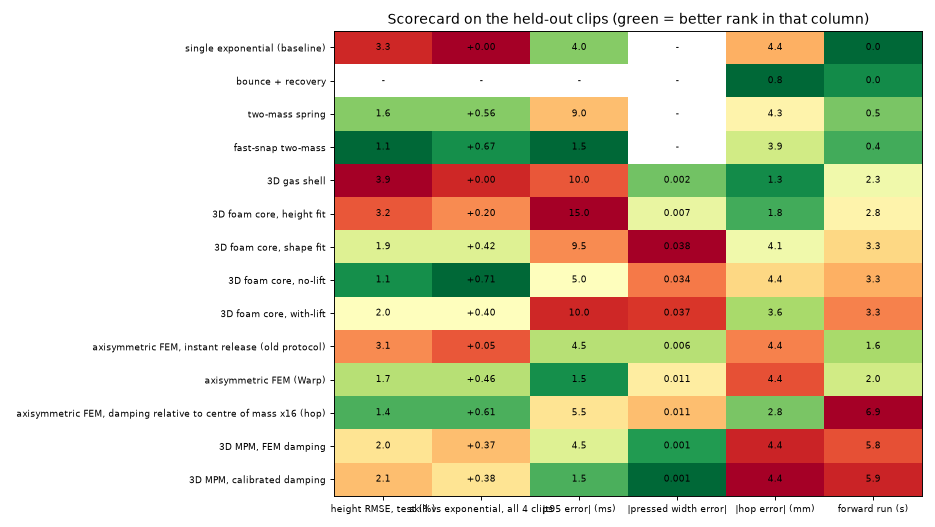
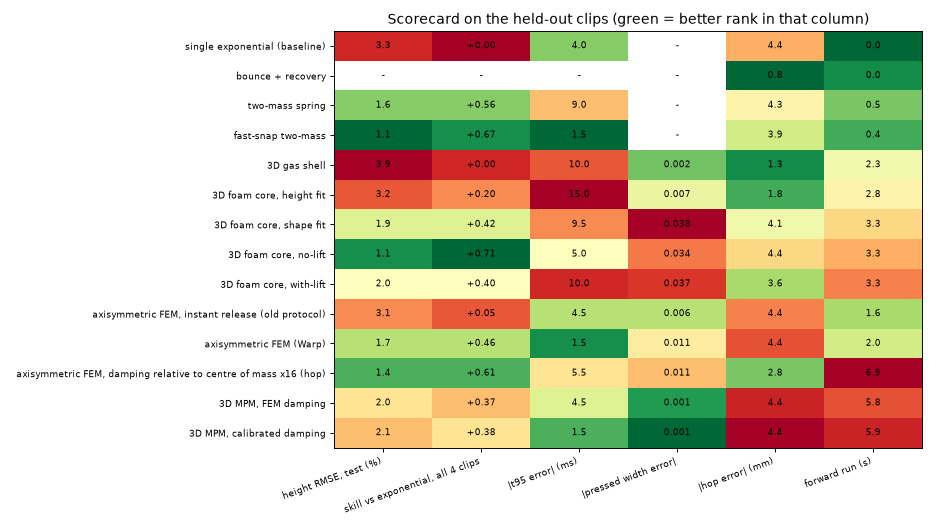
Make the repo easy for a first-time reader: new front-page README, video gallery, archive/ for superseded work, fixed links

diff --git a/evaluation/model_comparison/src/compare_all.py b/evaluation/model_comparison/src/compare_all.py
@@ -95,7 +95,7 @@ for j in range(V.shape[1]):
 fig, ax = plt.subplots(figsize=(11, 6.2)); ax.imshow(np.ma.masked_invalid(rank), cmap='RdYlGn_r', vmin=0, vmax=1, aspect='auto')
 for i in range(V.shape[0]):
     for j in range(V.shape[1]): ax.text(j, i, '-' if np.isnan(V[i, j]) else (f'{-V[i, j]:+.2f}' if j == 1 else (f'{V[i, j]:.1f}' if j != 3 else f'{V[i, j]:.3f}')), ha='center', va='center', fontsize=8)
-ax.set_xticks(range(len(cols))); ax.set_xticklabels([c[0] for c in cols], fontsize=8); ax.set_yticks(range(len(keys))); ax.set_yticklabels([INFO[k][0] for k in keys], fontsize=8); ax.set_title('Scorecard on the held-out clips (green = better rank in that column)')
+ax.set_xticks(range(len(cols))); ax.set_xticklabels([c[0] for c in cols], fontsize=8, rotation=20, ha='right'); ax.set_yticks(range(len(keys))); ax.set_yticklabels([INFO[k][0] for k in keys], fontsize=8); ax.set_title('Scorecard on the held-out clips (green = better rank in that column)')
 plt.tight_layout(); plt.savefig(f'{OUT}/fig6_scorecard.png', dpi=85); plt.close()
 
 # gallery of the model panels from the existing videos (held-out clip 0538): pressed state and 32 ms after release

diff --git a/README.md b/README.md
@@ -1,77 +1,75 @@
-# neural_simulation: learning a soft ball's deformation from video
+# Teaching a computer how a foam ball squashes, from video
 
-One foam ball, one steel tin that presses it and is pulled away, filmed at 1080p / 240 fps. From that video I fit physics models of how the ball squashes and recovers, and test them on clips held out of the fit (no refitting). Thirteen models in three families are compared on the same footing.
-**The models are physics, not learned**: spring and continuum solvers (hand-written, or NVIDIA Warp) with a handful of physical constants fitted by least squares or Adam (system identification). The only neural network is the **pretrained SAM 2** segmentation model used for tracking (together with a colour-threshold tracker).
+I filmed a yellow foam ball being pressed by a steel tin and let go, then built simulations of the ball that reproduce what the camera saw. The simulations were set up using two clips and then **tested on two clips they had never seen**.
 
+This is a take-home project for Dirac Robotics (Research Engineer Intern). The brief: fit a simple 3D deformation model of one soft object from video, demonstrate it on a fresh instance of the same interaction, and compare it with the real behaviour.
+
+## The result in 30 seconds
+After the tin lets go, the real ball springs back to its original height in about **25-40 ms** (a few video frames at 240 fps). The best models predict the ball's height over the following 250 ms to within **1-2 % of its height** (about 1 mm on a 67 mm ball) on the held-out clips. Guessing "it eases back exponentially" gives 3.3 %.
+
+![Height of the ball after release: real (dots) against every model, for a training clip (left) and a held-out clip (right)](evaluation/model_comparison/outputs/fig2_height_by_family.png)
+
+**Watch these first** (real clip on the left, model on the right, same clock, slowed 8x; the clip is 0538, which was held out):
+- [Finite-element ball, with the hop](models/continuum/fem_relative_damping_hop/outputs/real_vs_fem_hop16_IMG_0538.mp4)
+- [Finite-element ball, without the hop](models/continuum/fem_axisymmetric_warp/outputs/real_vs_fem_IMG_0538.mp4)
+
+All videos are listed in [docs/videos.md](docs/videos.md). Terms explained in plain words: [docs/glossary.md](docs/glossary.md).
+
+## What I did, in four steps
+1. **Measure the video** ([tracking/](tracking/README.md)). Find the ball in every frame (a colour threshold, cross-checked with Meta's pretrained SAM 2 segmentation model) and record its top edge, bottom edge, width and outline over time.
+2. **Choose a model of the ball's physics.** I tried three families, from simple to detailed, so the choice is not a guess.
+3. **Fit the model's few numbers** (stiffness, damping, friction) so it matches the two training clips. This is ordinary curve fitting of physical constants. **There is no neural network in the models**; the only network is SAM 2, used for tracking.
+4. **Predict the held-out clips and compare** every model on the same measurements ([evaluation/model_comparison](evaluation/model_comparison/README.md)).
+
+The tin's motion is an *input* taken from the video (it is the thing pushing the ball); the models predict how the ball responds after the tin lets go, plus its outline.
+
+## Which model should I look at?
+Models are grouped in three families under [models/](models/). Height error is on the **held-out clips** (lower is better; the simple exponential guess scores 3.3 %).
+
+| Model | In plain words | Height error | Look at it if you want... |
+| --- | --- | --- | --- |
+| [FEM, default](models/continuum/fem_axisymmetric_warp/README.md) | the ball as a smooth elastic solid, fitted to real material numbers (stiffness 38 kPa, Poisson ratio 0.10) | 1.7 % | the main physical model |
+| [FEM with the hop](models/continuum/fem_relative_damping_hop/README.md) | the same ball with damping that lets it bounce off the table like the real one | **1.4 %** | the most accurate model that also hops; includes the damping-factor study |
+| [MPM](models/continuum/mpm_3d_warp/README.md) | the ball as a cloud of 80,000 particles, in full 3D | 2.0 % | other loads: a point poke and two side plates (not validated against video) |
+| [Fast-snap two-mass](models/lumped_1d/fast_snap/README.md) | two blobs and a spring; the simplest model that works | 1.1 % | how far a very simple model gets |
+
+The other eight models (1D spring models, 3D spring meshes) are the earlier attempts; they are compared in [evaluation/model_comparison](evaluation/model_comparison/README.md), including a one-page scorecard and plots of every aspect (height, recovery time, shape, hop, speed). The spread among the best models (1.1-2.0 %) is about the size of the tracking noise, so they cannot be ranked on height alone; the continuum models add physical constants that do not depend on the mesh, a smooth ball, and a route to other loads.
+
+## Repository map
+```
+tracking/     step 1: video -> measurements (colour tracker and SAM 2)
+models/       steps 2-3: one folder per model, each with README (formulas, parameters, limits), src/, outputs/, run.sh
+  lumped_1d/    the ball as one or two vertical bodies (3 models)
+  mesh_3d/      3D mass-spring surface mesh (5 models)
+  continuum/    elastic solid: finite elements, the hop variant, material point method (3 models; NVIDIA Warp + PyTorch)
+evaluation/   step 4: all models compared on the same footing (tables, 7 figures)
+shared/       code several models import
+docs/         assignment, glossary, video gallery, the correction note
+archive/      superseded earlier work, kept for the record
+```
+**How to read it:** 5 minutes: this page and the two videos. 15 minutes: add [the comparison](evaluation/model_comparison/README.md) and one model README. Deep dive: [continuum/README](models/continuum/README.md), then the FEM and hop READMEs.
+
+## Run it
 ```bash
 # needs python3, ffmpeg and the four originals in videos/IMG_053{6,7,8,9}.MOV (not in git, ~157 MB)
-./run_all.sh              # ~30 min: tracking, the 1D models, 3D mesh and continuum videos, the comparison (saved parameters)
-./run_all.sh --fit-3d     # refit the 3D mesh models and the FEM too (each ~10-20 min)
-# the continuum models and SAM 2 run in a separate environment (.venv-sim: Warp, PyTorch, SAM 2; created on first use by env_sim.sh; GPU recommended)
+./run_all.sh              # ~30 min: tracking, all models from saved parameters, videos, comparison
+./run_all.sh --fit-3d     # also refit the 3D mesh models and the FEM (each ~10-20 min)
 ```
-Every folder under `tracking/`, `models/` and `evaluation/` has its own `README.md` (formulas, parameters, assumptions, limitations, results), `src/`, `outputs/` and `run.sh`. Clips: 0536 and 0537 are training (deep squeezes, 36-41 % of height); 0538 and 0539 are test (shallow squeezes, 62-63 %). Plain-words explanations of the terms: [docs/glossary.md](docs/glossary.md).
+The continuum models use a second environment (`.venv-sim`: Warp, PyTorch, SAM 2; built automatically by `env_sim.sh`; a GPU is recommended). Clips: 0536 and 0537 are training (deep squeezes, ball pressed to 36-41 % of its height); 0538 and 0539 are held out (shallow squeezes, 62-63 %).
 
-## An important correction (read this first)
-An earlier version of this repo had a bug in the release instant: it took the **mid-rise frame** (ball already at about 72 % of its height) as the moment the tin lets go. The tin in fact **retreats gradually** (46-121 ms) with the ball riding on it until the ball separates; only the free recovery after separation (about 25-40 ms to 95 % of rest height) belongs to the ball. Every model was therefore started from the wrong state and fitted to look "fast". Consequences: the claim that the real ball snaps back in 1-2 frames was false, the fast-snap experiment chased an artefact, and the early recovery-time study is invalid. Fix: the measured tin trajectory drives a plate in every simulator, time zero is the separation frame, and **all models were refitted on the SAM 2 measurements**. Details and what stays valid: [docs/correction_release_definition.md](docs/correction_release_definition.md). Old outputs are kept in `outputs/archive_v1_instant_release/`.
+## Assumptions and limitations (read before relying on any number)
+- **Only flat-plate presses were fitted and tested.** The point-poke and side-plate loads (MPM, spring meshes) are predictions with no video to check them against.
+- **The tin's motion is an input** from the video; the models do not predict how the tin moves.
+- **Ball mass was not measured** (assumed density 55 kg/m³, mass about 10 g; stiffness scales linearly with it) and the 6.7 cm diameter is approximate; it sets the pixel scale.
+- **Four clips only** (two training, two held out): the numbers are a rough spread, not a confidence interval.
+- **The hop is the weakest part.** The default continuum models do not hop at all. The hop variant gets its size right (4-8 mm against 3-7 mm) but it starts about 5 ms after release while the real hop starts about 20 ms after, and its damping multiplier (×16) was chosen on a coarse grid from two clips. Details in its README.
+- **Spring-mesh parameters depend on the mesh;** the continuum constants should not.
+- **Fit status:** the gas-shell fit never left its starting values; the no-lift fit ended with one stiffness on its bound; mesh fits use two or three starting points.
+- **Tracking:** one fixed table line and camera pose; the cause of the uneven frame gaps in the files is not verified (file timestamps are used).
+- **Input videos are not in git** (size). They are the four originals named above.
 
-## What the video taught me
-- **Time base:** file timestamps are uneven (2/3 of gaps 1/240 s, 1/3 1/120 s); fitting free-flight arcs gives gravity of about 8.7 m/s² with them against 9.4-25 with a uniform 1/240 s, so the file timestamps are used.
-- **The ball hops** (3-8 mm) after separating; part of it may come from friction or suction with the tin, which this video cannot separate from the ball's own elasticity.
-- **Shape:** while pressed the outline is a flat-sided cylinder (squareness n about 4); the width grows only 4-8 % while the height drops 37-66 %, so volume is not conserved (foam, not a sealed gas).
-- **Tracking:** the colour tracker reads the pressed top edge 4-5 % too high (a reflection on the tin); SAM 2 does not. After release they agree.
-
-## Repository map: one problem, several ways to solve it
-```
-tracking/        video -> measurements: colour tracker and SAM 2 (ball edges, outline, shape)
-models/
-  lumped_1d/     Family 1: the ball as one or two vertical bodies
-    bounce_recovery/       rigid hop (restitution) + exponential recovery (after the first apex)
-    two_mass_spring/       bottom + top mass, nonlinear spring-damper
-    fast_snap/             + stiff deep-compression regime
-  mesh_3d/       Family 2: 3D mass-spring surface mesh with a pressing tool
-    gas_shell/             sealed gas inside a stretchy skin
-    foam_core_height_fit/  foam core (radial springs), fit to height / lift / width
-    foam_core_shape_fit/   + outline squareness and width over time
-    foam_core_no_lift/     hop ignored in the fit
-    foam_core_with_lift/   hop included (weight 4)
-  continuum/     Family 3: the ball as an elastic solid (E, nu), Warp + PyTorch, SAM 2 data
-    fem_axisymmetric_warp/ finite elements on the 2D slice, revolved into a smooth ball
-    fem_relative_damping_hop/ the same FEM with damping relative to the centre of mass (x16): keeps the hop
-    mpm_3d_warp/           3D material point method, FEM material, point and side loads
-evaluation/      model_comparison (all models, every aspect); recovery_time (superseded)
-shared/          code several models import (3D engine, scenario runner, renderers, clip preparation)
-docs/            assignment PDF, initial plan, the correction, write-up of the first experiments, glossary
-```
-Family overviews: [lumped_1d](models/lumped_1d/README.md), [mesh_3d](models/mesh_3d/README.md), [continuum](models/continuum/README.md). Every model folder has real-versus-model videos in `outputs/` (time zero = separation, slowed 8x; training clip 0536 and held-out 0538, 0539).
-
-## Results: all models on the same footing ([full comparison](evaluation/model_comparison/README.md))
-Height error after separation (RMSE, % of ball height) on the **held-out clips**; skill = 1 − RMSE / RMSE of the plain exponential (3.3 % on the held-out clips), averaged over all four clips:
-
-| Model | Held-out height error | Skill (4 clips) | 95 % recovery (real 27 / 24 ms) | Notes |
-| --- | --- | --- | --- | --- |
-| fast-snap two-mass | 1.1 % | +0.67 | 24 / 24 | best 1D model |
-| foam core, no-lift (mesh) | 1.1 % | +0.71 | 31 / 30 | no hop |
-| two-mass spring | 1.6 % | +0.56 | 35 / 34 | |
-| **axisymmetric FEM (Warp)** | **1.7 %** | +0.46 | 24 / 24 | E = 38 kPa, ν = 0.10; smooth round ball; reproduces the outline |
-| foam core, shape fit (mesh) | 1.9 % | +0.42 | 16 / 16 | recovers too fast |
-| foam core, with-lift (mesh) | 2.0 % | +0.40 | 16 / 15 | hop on deep presses |
-| **[FEM hop model](models/continuum/fem_relative_damping_hop/README.md): damping relative to centre of mass ×16** | **1.4 %** | +0.62 | 20 / 20 | lowest height error; keeps a hop (4-8 mm vs real 3-7); 95 % recovery slightly fast on test clips; α chosen on training clips only (hop_scan) |
-| **3D MPM (Warp), FEM material** | 2.1 % | +0.38 | 27 / 27 | point and side loads (unvalidated) |
-| foam core, height fit (mesh) | 3.2 % | +0.20 | 11 / 10 | closest hop of the meshes |
-| 3D gas shell | 3.9 % | 0.00 | 22 / 9 | fit stalled; rings |
-| bounce + recovery | not comparable | | | covers only the time after the first hop apex; reproduces the hop |
-| axisymmetric FEM, instant release (old protocol) | 3.1 % | +0.05 | 30 / 30 | ablation: the tin retreat is worth 1.4 points |
-
-**Reading it honestly.** After the correction most physics models beat the plain exponential, and the spread among the good ones (1.1-2.1 %) is about the tracker's noise, so they cannot be ranked on height alone. The protocol (driving the measured tin retreat) mattered more than the model choice. The continuum models are not more accurate on height than the 1D models; what they add is physical constants that do not depend on the discretisation, a smooth ball that reproduces the outline, and a route to other loads. Only the spring models and the relative-damping FEM variant produce a hop; the spring models get it right on training clips only.
-
-## Limitations (read before relying on any number)
-- **The tin's motion is an input.** The compressed height and the measured tin trajectory come from the video; the models predict the ball's response after separation (and the outline).
-- **Only flat top presses were fitted and tested.** The point-probe and side-plate loads (spring engine, MPM) are predictions with no video to test against.
-- **No ball mass was measured accurately:** stiffness and damping of the spring models are per unit mass; the continuum models assume 55 kg/m³ (E scales linearly with it). The diameter (6.7 cm) is a rough estimate that sets the pixel scale and the gravity term.
-- **Mass-spring parameters depend on the mesh**; the continuum constants should not.
-- **No hop in the default continuum models** (mass-proportional damping); the FEM variant with damping relative to the centre of mass (×16) hops 4-8 mm, but E, ν and friction were fitted with absolute damping and only α was rescaled, and its hop starts ~5 ms after separation versus ~20 ms in the video. MPM has no such option yet. Tin friction or suction may add to the real hop and is not modelled.
-- **Fit status:** two training clips and two test clips give a rough spread, not a confidence interval; the gas-shell fit never left its starting values; the no-lift fit ended with one stiffness on its bound; mesh fits use two or three starting points and 20-30 optimizer steps.
-- **Tracking:** fixed table line (pixel row 740, one camera pose); the cause of the irregular frame gaps is not verified; SAM 2 and the colour tracker agree after release but differ while pressed (the continuum models and the refitted older models use SAM 2).
+## One correction worth knowing about
+An early version took the wrong frame as "the moment the tin lets go" (the ball was still riding on the tin), which made every model look too fast. It was found, fixed by driving the measured tin motion in every simulator, and **every model was refitted**. Details: [docs/correction_release_definition.md](docs/correction_release_definition.md); the old outputs are in [archive/](archive/README.md).
 
 ## Credits
 Python, NumPy, SciPy, OpenCV, Matplotlib, FFmpeg; NVIDIA Warp (simulation), PyTorch (fitting), Meta's SAM 2 (`facebook/sam2.1-hiera-tiny`, via Hugging Face) for segmentation. Code and analysis were written with Claude Code (Anthropic's AI assistant); results were checked by running the pipelines.

diff --git a/docs/videos.md b/docs/videos.md
@@ -1,0 +1,91 @@
+# Video gallery
+
+Every video puts the **real clip next to the model**, on the same clock (time zero = the moment the ball separates from the tin; slowed 8x). Clips 0536 and 0537 were used to fit the models; **0538 and 0539 are held-out** (never used for fitting). If you only watch two, watch the first two rows of the continuum section.
+
+
+## Continuum: finite elements (default damping, no hop)  
+`models/continuum/fem_axisymmetric_warp`
+
+- [real_vs_fem_IMG_0536.mp4](../models/continuum/fem_axisymmetric_warp/outputs/real_vs_fem_IMG_0536.mp4) (0.4 MB)
+- [real_vs_fem_IMG_0538.mp4](../models/continuum/fem_axisymmetric_warp/outputs/real_vs_fem_IMG_0538.mp4) (0.4 MB)
+- [real_vs_fem_IMG_0539.mp4](../models/continuum/fem_axisymmetric_warp/outputs/real_vs_fem_IMG_0539.mp4) (0.4 MB)
+
+## Continuum: finite elements with hop (damping x16)  
+`models/continuum/fem_relative_damping_hop`
+
+- [hop_experiment_14to16_IMG_0536.mp4](../models/continuum/fem_relative_damping_hop/outputs/hop_experiment_14to16_IMG_0536.mp4) (0.3 MB)
+- [hop_experiment_14to16_IMG_0537.mp4](../models/continuum/fem_relative_damping_hop/outputs/hop_experiment_14to16_IMG_0537.mp4) (0.4 MB)
+- [hop_experiment_14to16_IMG_0538.mp4](../models/continuum/fem_relative_damping_hop/outputs/hop_experiment_14to16_IMG_0538.mp4) (0.3 MB)
+- [hop_experiment_14to16_IMG_0539.mp4](../models/continuum/fem_relative_damping_hop/outputs/hop_experiment_14to16_IMG_0539.mp4) (0.3 MB)
+- [hop_experiment_IMG_0536.mp4](../models/continuum/fem_relative_damping_hop/outputs/hop_experiment_IMG_0536.mp4) (0.3 MB)
+- [hop_experiment_IMG_0538.mp4](../models/continuum/fem_relative_damping_hop/outputs/hop_experiment_IMG_0538.mp4) (0.3 MB)
+- [real_vs_fem_hop16_IMG_0536.mp4](../models/continuum/fem_relative_damping_hop/outputs/real_vs_fem_hop16_IMG_0536.mp4) (0.4 MB)
+- [real_vs_fem_hop16_IMG_0538.mp4](../models/continuum/fem_relative_damping_hop/outputs/real_vs_fem_hop16_IMG_0538.mp4) (0.5 MB)
+- [real_vs_fem_hop16_IMG_0539.mp4](../models/continuum/fem_relative_damping_hop/outputs/real_vs_fem_hop16_IMG_0539.mp4) (0.4 MB)
+
+## Continuum: 3D material point method  
+`models/continuum/mpm_3d_warp`
+
+- [mpm_load_flat.mp4](../models/continuum/mpm_3d_warp/outputs/mpm_load_flat.mp4) (1.6 MB)
+- [mpm_load_point.mp4](../models/continuum/mpm_3d_warp/outputs/mpm_load_point.mp4) (1.6 MB)
+- [mpm_load_side.mp4](../models/continuum/mpm_3d_warp/outputs/mpm_load_side.mp4) (1.5 MB)
+- [real_vs_mpm_IMG_0536.mp4](../models/continuum/mpm_3d_warp/outputs/real_vs_mpm_IMG_0536.mp4) (1.6 MB)
+- [real_vs_mpm_IMG_0538.mp4](../models/continuum/mpm_3d_warp/outputs/real_vs_mpm_IMG_0538.mp4) (1.6 MB)
+- [real_vs_mpm_IMG_0539.mp4](../models/continuum/mpm_3d_warp/outputs/real_vs_mpm_IMG_0539.mp4) (1.6 MB)
+
+## 1D: rigid hop + exponential recovery  
+`models/lumped_1d/bounce_recovery`
+
+- [demo_IMG_0538.mp4](../models/lumped_1d/bounce_recovery/outputs/demo_IMG_0538.mp4) (0.2 MB)
+- [demo_IMG_0539.mp4](../models/lumped_1d/bounce_recovery/outputs/demo_IMG_0539.mp4) (0.2 MB)
+
+## 1D: two masses, stiffer when deeply squeezed  
+`models/lumped_1d/fast_snap`
+
+- [demo_snap_IMG_0538.mp4](../models/lumped_1d/fast_snap/outputs/demo_snap_IMG_0538.mp4) (0.4 MB)
+- [demo_snap_IMG_0539.mp4](../models/lumped_1d/fast_snap/outputs/demo_snap_IMG_0539.mp4) (0.4 MB)
+
+## 1D: two masses and a spring  
+`models/lumped_1d/two_mass_spring`
+
+- [demo_squeeze_IMG_0538.mp4](../models/lumped_1d/two_mass_spring/outputs/demo_squeeze_IMG_0538.mp4) (0.4 MB)
+- [demo_squeeze_IMG_0539.mp4](../models/lumped_1d/two_mass_spring/outputs/demo_squeeze_IMG_0539.mp4) (0.4 MB)
+
+## 3D mesh: foam core, fitted to height  
+`models/mesh_3d/foam_core_height_fit`
+
+- [demo_flat.mp4](../models/mesh_3d/foam_core_height_fit/outputs/demo_flat.mp4) (0.4 MB)
+- [demo_point.mp4](../models/mesh_3d/foam_core_height_fit/outputs/demo_point.mp4) (0.3 MB)
+- [real_vs_3d_IMG_0536.mp4](../models/mesh_3d/foam_core_height_fit/outputs/real_vs_3d_IMG_0536.mp4) (0.6 MB)
+- [real_vs_3d_IMG_0538.mp4](../models/mesh_3d/foam_core_height_fit/outputs/real_vs_3d_IMG_0538.mp4) (0.6 MB)
+- [real_vs_3d_IMG_0539.mp4](../models/mesh_3d/foam_core_height_fit/outputs/real_vs_3d_IMG_0539.mp4) (0.5 MB)
+
+## 3D mesh: foam core, hop ignored in the fit  
+`models/mesh_3d/foam_core_no_lift`
+
+- [real_vs_3d_IMG_0536.mp4](../models/mesh_3d/foam_core_no_lift/outputs/real_vs_3d_IMG_0536.mp4) (0.5 MB)
+- [real_vs_3d_IMG_0538.mp4](../models/mesh_3d/foam_core_no_lift/outputs/real_vs_3d_IMG_0538.mp4) (0.5 MB)
+- [real_vs_3d_IMG_0539.mp4](../models/mesh_3d/foam_core_no_lift/outputs/real_vs_3d_IMG_0539.mp4) (0.5 MB)
+
+## 3D mesh: foam core, fitted to outline  
+`models/mesh_3d/foam_core_shape_fit`
+
+- [real_vs_3d_IMG_0536.mp4](../models/mesh_3d/foam_core_shape_fit/outputs/real_vs_3d_IMG_0536.mp4) (0.5 MB)
+- [real_vs_3d_IMG_0538.mp4](../models/mesh_3d/foam_core_shape_fit/outputs/real_vs_3d_IMG_0538.mp4) (0.5 MB)
+- [real_vs_3d_IMG_0539.mp4](../models/mesh_3d/foam_core_shape_fit/outputs/real_vs_3d_IMG_0539.mp4) (0.5 MB)
+
+## 3D mesh: foam core, hop included  
+`models/mesh_3d/foam_core_with_lift`
+
+- [real_vs_3d_IMG_0536.mp4](../models/mesh_3d/foam_core_with_lift/outputs/real_vs_3d_IMG_0536.mp4) (0.5 MB)
+- [real_vs_3d_IMG_0538.mp4](../models/mesh_3d/foam_core_with_lift/outputs/real_vs_3d_IMG_0538.mp4) (0.5 MB)
+- [real_vs_3d_IMG_0539.mp4](../models/mesh_3d/foam_core_with_lift/outputs/real_vs_3d_IMG_0539.mp4) (0.5 MB)
+
+## 3D mesh: sealed gas in a skin  
+`models/mesh_3d/gas_shell`
+
+- [demo_flat_gas.mp4](../models/mesh_3d/gas_shell/outputs/demo_flat_gas.mp4) (1.3 MB)
+- [demo_point_gas.mp4](../models/mesh_3d/gas_shell/outputs/demo_point_gas.mp4) (0.9 MB)
+- [real_vs_3d_IMG_0536.mp4](../models/mesh_3d/gas_shell/outputs/real_vs_3d_IMG_0536.mp4) (0.7 MB)
+- [real_vs_3d_IMG_0538.mp4](../models/mesh_3d/gas_shell/outputs/real_vs_3d_IMG_0538.mp4) (0.7 MB)
+- [real_vs_3d_IMG_0539.mp4](../models/mesh_3d/gas_shell/outputs/real_vs_3d_IMG_0539.mp4) (0.6 MB)

diff --git a/models/continuum/README.md b/models/continuum/README.md
@@ -1,11 +1,12 @@
 # Family 3: continuum models (the ball as a solid), built on NVIDIA Warp and PyTorch
 
 The third way to explain the video, and the one the research literature uses: treat the ball as a **volume of elastic material** with physical constants (Young's modulus E, Poisson ratio ν, density ρ) instead of a spring mesh.
-Both models use libraries instead of hand-written solvers: [NVIDIA Warp](https://nvidia.github.io/warp/) for the simulation (differentiable, GPU) and PyTorch for the fitting loop. Fitted on the SAM 2 measurements with the corrected protocol (the tin retreats along its measured trajectory; see [docs/correction_release_definition.md](../../docs/correction_release_definition.md)).
+These models use libraries instead of hand-written solvers: [NVIDIA Warp](https://nvidia.github.io/warp/) for the simulation (differentiable, GPU) and PyTorch for the fitting loop. Fitted on the SAM 2 measurements with the corrected protocol (the tin retreats along its measured trajectory; see [docs/correction_release_definition.md](../../docs/correction_release_definition.md)).
 
 | Model | Method | What it is for | Fitted? | Held-out height error (0538 / 0539) |
 | --- | --- | --- | --- | --- |
 | [fem_axisymmetric_warp](fem_axisymmetric_warp/) | finite elements on the 2D slice, revolved around the vertical axis | the flat-plate press: smooth round ball; E = 38 kPa, ν = 0.10, damping, friction | yes (PyTorch + Warp tape, on 0536+0537) | 1.9 / 1.4 % |
+| [fem_relative_damping_hop](fem_relative_damping_hop/) | the same finite elements with damping relative to the centre of mass (×16) | a ball that also hops like the real one; lowest height error of all models | no new fit: FEM material, one damping multiplier chosen on the training clips | 1.6 / 1.3 % |
 | [mpm_3d_warp](mpm_3d_warp/) | 3D material point method, 80,000 particles | an independent solver for the same material, plus point and side loads | no: FEM material; damping calibrated on the training clips | 2.3 / 1.9 % |
 
 Plain exponential: 3.1 / 3.4 %. **What this family adds is not a smaller height error** (the 1D and mesh models reach 1.1-2.0 % too); it is physical constants that do not depend on the discretisation, a smooth round ball that reproduces the outline, and a model that extends to loads other than the flat press (unvalidated). See [evaluation/model_comparison](../../evaluation/model_comparison/README.md).

diff --git a/docs/correction_release_definition.md b/docs/correction_release_definition.md
@@ -19,7 +19,7 @@ Every model was started at the mid-rise frame as if the ball were still fully pr
 - Every simulator (two-mass and fast-snap ODEs, the three 3D mesh scenario runners, the FEM, the MPM) moves a kinematic plate along that trajectory, then removes it at separation. The ball's free recovery is then **predicted**, not replayed; only the tin's motion is an input.
 - Evidence the initial condition is now right: for IMG_0538, with the *old* parameters and the new input, the two-mass model reaches 0.812 and the 3D foam mesh 0.815 of rest height at separation, against 0.811 measured.
 - All models were **refitted on the SAM 2 measurements** (see `tracking/README.md` for why the colour tracker's pressed top edge is biased high), so every model now sees the same data.
-- The old outputs are kept in each model's `outputs/archive_v1_instant_release/` (and `*_instant_release.*` for the continuum models) for transparency; the axisymmetric FEM with the old protocol is kept as an ablation model in the comparison.
+- The old outputs are kept in [archive/v1_instant_release/](../archive/v1_instant_release/) (and `*_instant_release.*` for the continuum models) for transparency; the axisymmetric FEM with the old protocol is kept as an ablation model in the comparison.
 
 ## What remains valid
 Tracking and its SAM 2 comparison, the time base (verified with gravity), the hop analysis after the first apex (bounce model), and the conclusions about the sealed-gas model's bulge. Everything that depended on the release frame (fitted stiffness and damping, recovery times, rankings) was recomputed; see `evaluation/model_comparison`.

diff --git a/evaluation/model_comparison/README.md b/evaluation/model_comparison/README.md
@@ -1,6 +1,6 @@
 # Comparing every model, on the same footing
 
-All 12 models (and the plain-exponential and stay-at-rest baselines) are run with their saved parameters and scored against the **same SAM 2 measurements** of the real clips. Models were fitted on 0536 and 0537 (deep squeezes, 36-41 % of height) and are tested on 0538 and 0539 (shallow squeezes, 62-63 %) with no refit. Time zero is the **separation frame**, when the ball leaves the tin; every model is driven by the measured tin retreat before that (corrected protocol, see [docs/correction_release_definition.md](../../docs/correction_release_definition.md)).
+All 13 models (and the plain-exponential and stay-at-rest baselines) are run with their saved parameters and scored against the **same SAM 2 measurements** of the real clips. Models were fitted on 0536 and 0537 (deep squeezes, 36-41 % of height) and are tested on 0538 and 0539 (shallow squeezes, 62-63 %) with no refit. Time zero is the **separation frame**, when the ball leaves the tin; every model is driven by the measured tin retreat before that (corrected protocol, see [docs/correction_release_definition.md](../../docs/correction_release_definition.md)).
 Run `./run.sh` (about 5 min). Full tables: [outputs/results_tables.md](outputs/results_tables.md); numbers in `outputs/metrics.json`.
 
 ## Figures (`outputs/`)

diff --git a/models/mesh_3d/README.md b/models/mesh_3d/README.md
@@ -2,7 +2,7 @@
 
 The second way to explain the video: represent the ball as a 3D surface mesh (an icosphere with 162 nodes, 480 edges), apply the press as a contact tool and simulate it with gravity and a table.
 All five variants share one engine, `../../shared/ball3d.py`, and one scenario runner, `../../shared/scenario3d.py`: relax, press quasi-statically to the clip's measured compressed height, **retreat the plate along the measured tin trajectory** (the corrected protocol, see [docs/correction_release_definition.md](../../docs/correction_release_definition.md)), release, simulate 0.25 s. They differ in the internal physics (sealed gas vs foam core) and in what the fit is asked to match.
-Everything was refitted on the SAM 2 measurements after the correction; earlier results are in each `outputs/archive_v1_instant_release/`.
+Everything was refitted on the SAM 2 measurements after the correction; earlier results are in [../../archive/v1_instant_release/](../../archive/v1_instant_release/).
 
 | Model | Internal physics | Fit targets | Held-out height error (0538 / 0539) | Outcome |
 | --- | --- | --- | --- | --- |

diff --git a/archive/README.md b/archive/README.md
@@ -1,0 +1,10 @@
+# Archive: earlier work kept for the record
+
+Nothing here is needed to understand or rerun the current results. It is kept so the history is honest.
+
+| Item | What it is | Why it is archived |
+| --- | --- | --- |
+| `v1_instant_release/` | Outputs (fits, videos, tables) of every model from the first version of the project. | That version started each simulation from the wrong release instant (see [../docs/correction_release_definition.md](../docs/correction_release_definition.md)); every model was refitted afterwards. |
+| `recovery_time_study/` | The first study of how long the ball takes to regain its shape. | Measured from the same wrong release instant. Its question is answered by section 2 of [../evaluation/model_comparison](../evaluation/model_comparison/README.md). Its scripts expect the old path `evaluation/recovery_time/`. |
+| `experiments_2d.md` | Write-up of the first 2D experiments. | Superseded. |
+| `initial_plan.md` | The planning document the project started from. | Superseded by the READMEs. |

diff --git a/archive/recovery_time_study/README.md b/archive/recovery_time_study/README.md
@@ -1,4 +1,4 @@
 # SUPERSEDED: do not use these numbers
 
 This folder holds an earlier "time to regain shape" study (train 0536+0537, test 0538+0539). It measured every recovery from the **wrong release frame** (the ball was already at about 72 % of its height there) and compared the real clips with models that started fully pressed. Its results are invalid; see [docs/correction_release_definition.md](../../docs/correction_release_definition.md).
-The corrected recovery times (time to 95 % of rest height, from the separation frame, for all models) are in [../model_comparison](../model_comparison/README.md), table 2. The code and old outputs are kept only for the record; the folder is not part of `run_all.sh`.
+The corrected recovery times (time to 95 % of rest height, from the separation frame, for all models) are in [../model_comparison](../../evaluation/model_comparison/README.md), table 2. The code and old outputs are kept only for the record; the folder is not part of `run_all.sh`.

diff --git a/models/mesh_3d/foam_core_with_lift/README.md b/models/mesh_3d/foam_core_with_lift/README.md
@@ -21,4 +21,4 @@ As `foam_core_height_fit`. Tin friction or suction may account for part of the r
 **Videos** (`outputs/real_vs_3d_IMG_0536|0538|0539.mp4`): real clip, the model's side view and its oblique view on one clock (time zero = the tin separates; the window starts just before the tin begins to retreat; slowed 8x). 0536 is a training clip; 0538 and 0539 are held out. `./render.sh` re-renders them from the saved parameters in about a minute.
 
 ## Run
-`./run.sh` (fit about 20 min, then videos and the hop check; `TRACKER=sam2`). Code `src/fit3d_lift.py`, `src/hop_check.py`. Outputs `outputs/params_3d_lift.json`, `fit3d_lift_log.txt`, `hop_check.md`, `hops.png`, `outputs/archive_v1_instant_release/`.
+`./run.sh` (fit about 20 min, then videos and the hop check; `TRACKER=sam2`). Code `src/fit3d_lift.py`, `src/hop_check.py`. Outputs `outputs/params_3d_lift.json`, `fit3d_lift_log.txt`, `hop_check.md`, `hops.png`, [archive/v1_instant_release](../../../archive/v1_instant_release/).

diff --git a/models/lumped_1d/two_mass_spring/README.md b/models/lumped_1d/two_mass_spring/README.md
@@ -35,4 +35,4 @@ One vertical degree of freedom pair; homogeneous spring; table and plate are sti
 It beats the plain exponential on every clip (skill +0.47 to +0.72). With the earlier, wrong protocol (instant removal at the mid-rise frame) the same model reported 6-8 %; that was an artefact (see `docs/correction_release_definition.md`).
 
 ## Run
-`./run.sh` (about 6 min). Code: `src/sim.py` (model, fit, leave-one-out), `src/demo_sim.py` (real clip next to the ellipsoid). Outputs: `outputs/sim_results.txt`, `sim_params.json`, `demo_squeeze_IMG_0538.mp4`, `demo_squeeze_IMG_0539.mp4`; `outputs/archive_v1_instant_release/` holds the earlier run.
+`./run.sh` (about 6 min). Code: `src/sim.py` (model, fit, leave-one-out), `src/demo_sim.py` (real clip next to the ellipsoid). Outputs: `outputs/sim_results.txt`, `sim_params.json`, `demo_squeeze_IMG_0538.mp4`, `demo_squeeze_IMG_0539.mp4`; [archive/v1_instant_release](../../../archive/v1_instant_release/) holds the earlier run.
